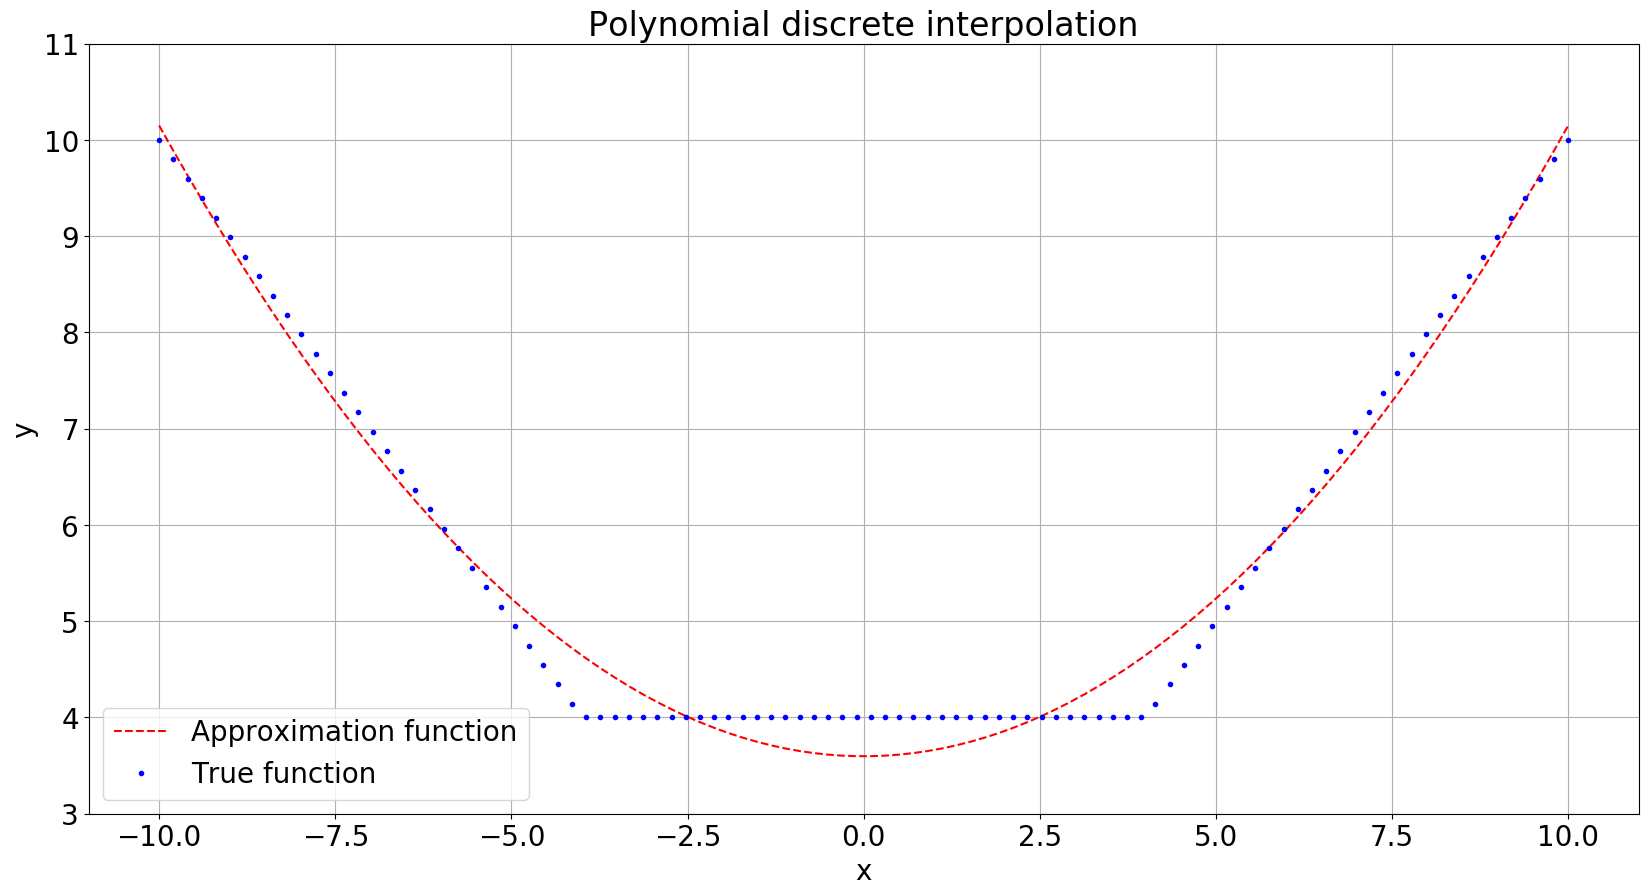
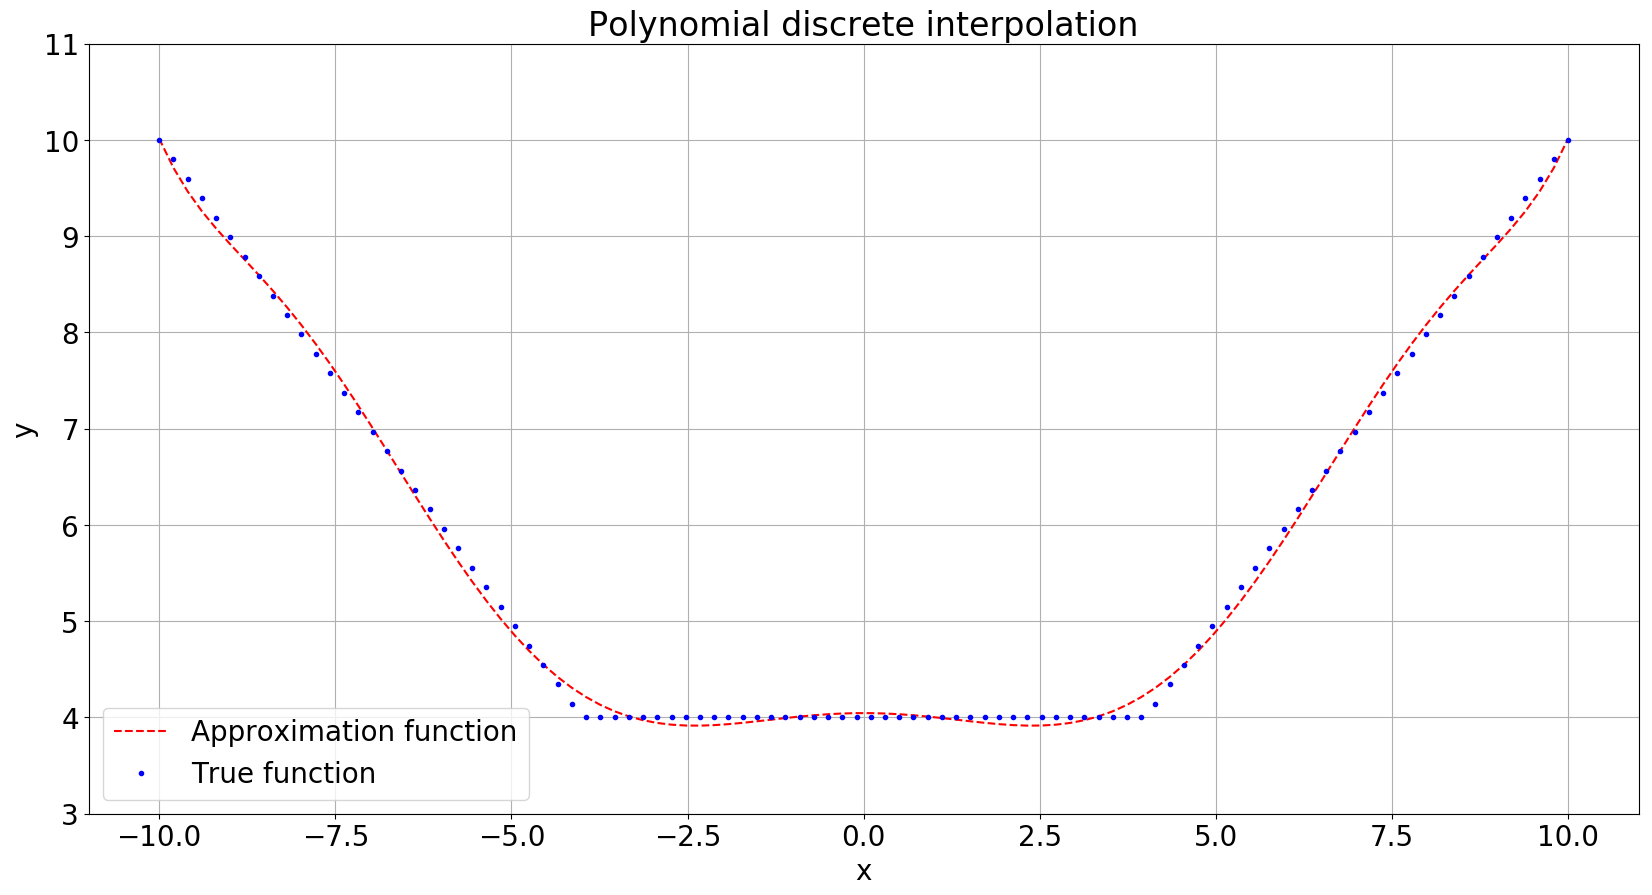
labwork 5 finished

diff --git a/lab/lab-5/tex/report.tex b/lab/lab-5/tex/report.tex
@@ -42,11 +42,12 @@
 
 Для виконання $(f - \Phi, \phi) = 0$ достатньо, щоб \[ (f - \Phi, \phi_j) = 0, \quad j = \overline{0, n}, \] що у свою чергу дає \[ \left(f - \sum_{i = 0}^n c_i \cdot \phi_i, \phi_j \right) = 0, \quad j = \overline{0, n}. \] Звідси маємо СЛАР на $c_i$: \[ \sum_{i=0}^n c_i \cdot (\phi_i, \phi_j)_\rho = (f, \phi_j)_\rho, \quad j = \overline{0, n}. \]
 
-Матриця цієї СЛАР --- $G = \|g_{ij}\|_{i,j=1}^{n}$, де $g_{ij} = (\phi_i, \phi_j)_\rho$ --- матриця Грамма лінійно-незалежної системи функцій $\{\phi_i\}_{i=0}^n$, що доводить існування та єдиність ЕНН. Оскільки $G^T = G$, то для роз\-в'яз\-у\-ва\-ння цієї СЛАР використовують метод квадратних коренів. У багатьох випадках матриця $G$ погано обумовлена, у цих випадках систему функцій вибирають ортогональною з ваговим коефіцієнтом $\rho$. \medskip
+Матриця цієї СЛАР --- $G = \|g_{ij}\|_{i,j=1}^{n}$, де $g_{ij} = (\phi_i, \phi_j)_\rho$ --- матриця Грамма лінійно-незалежної системи функцій $\{\phi_i\}_{i=0}^n$, що доводить існування та єдиність ЕНН. Оскільки $G^T = G$, то для роз\-в'яз\-у\-ва\-ння цієї СЛАР використовують метод квадратних коренів. У багатьох випадках матриця $G$ погано обумовлена, у цих випадках систему функцій вибирають ортогональною з ваговим коефіцієнтом $\rho$, де для поліномів Чебишова \[ \rho(x) = \frac{1}{\sqrt{1 - x^2}}. \]
 
-% TODO
+Тоді СЛАР на $c_i$ набуває наступний вигляд:
+\[ \begin{pmatrix} c_1 \\ c_2 \\ c_3 \\ \vdots \\ c_{n - 1} \\ c_n \end{pmatrix} \cdot \begin{pmatrix} (\phi_1, \phi_1)_\rho & 0 & 0 & \cdots & 0 & 0 \\ 0 & (\phi_2, \phi_2)_\rho & 0 & \cdots & 0 & 0 \\ 0 & 0 & (\phi_3, \phi_3)_\rho & \cdots & 0 & 0 \\ \vdots & \vdots & \vdots & \ddots & \vdots & \vdots \\ 0 & 0 & 0 & \cdots & (\phi_{n - 1}, \phi_{n - 1})_\rho & 0 \\ 0 & 0 & 0 & \cdots & 0 & (\phi_n, \phi_n)_\rho \end{pmatrix} = \begin{pmatrix} (f, \phi_1)_\rho \\ (f, \phi_2)_\rho \\ (f, \phi_3)_\rho \\ \vdots \\ (f, \phi_{n - 1})_\rho \\ (f, \phi_n)_\rho \end{pmatrix} \]
 
-Явно запишемо розв'язок СЛАР: \[ \Phi = \sum_{i = 0}^n (f, \phi_i)_\rho \cdot \phi_i, \] звідки у випадку ортонормованої системи функцій маємо наступний вираз відхилення: \[ \Delta^2(f) = \|f - \Phi\|^2 = \|f\| - \|\Phi\|^2 = \|f\| - \sum_{i=0}^n c_i^2.\] У випадку ортогональної але не нормалізованої системи відхилення шукається наступним чином: \begin{equation} \label{delta} \Delta^2(f) = \|f - \Phi\|^2 = \|f\| - \|\Phi\|^2 = \|f\| - \sum_{i=0}^n c_i^2 \cdot \|\phi_i\|^2. \end{equation}
+Явно запишемо розв'язок цієї СЛАР: \[ c_i = \frac{(f, \phi_i)_\rho}{(\phi_i, \phi_i)_\rho}, \] тоді \[ \Phi = \sum_{i = 0}^n \frac{(f, \phi_i)_\rho}{(\phi_i, \phi_i)_\rho} \cdot \phi_i, \] звідки у випадку ортонормованої системи функцій маємо наступний вираз відхилення: \[ \Delta^2(f) = \|f - \Phi\|^2 = \|f\| - \|\Phi\|^2 = \|f\| - \sum_{i=0}^n c_i^2.\] У випадку ортогональної але не нормалізованої системи відхилення шукається наступним чином: \begin{equation} \label{delta} \Delta^2(f) = \|f - \Phi\|^2 = \|f\| - \|\Phi\|^2 = \|f\| - \sum_{i=0}^n c_i^2 \cdot \|\phi_i\|^2. \end{equation}
 
 \subsection{Метод найменших квадратів}
 
@@ -119,7 +120,7 @@
 
 \subsubsection{Тригонометрична система функцій}
 
-Система функцій $\{1, \sin x, \cos x, \sin 2x, \cos 2x, \ldots$, ортогональні без вагового множника на $[-\pi,\pi]$.
+Система функцій $\{1, \sin x, \cos x, \sin 2x, \cos 2x, \ldots\}$, ортогональні без вагового множника на $[-\pi,\pi]$.
 
 \begin{figure}[H]
     \centering
@@ -184,15 +185,14 @@
     \end{tabular}
 \end{table}
 
-Поліном найкращого середньоквадратичного наближення оптимального степеня та отримуємо, що $m = m^\star = 2$, тобто з моменту коли наступна величина стабілізується або почне зростати: \[\sigma^2 = \sqrt{\frac{1}{n - m} \sum_{k = 0}^n (P_m(x_k) - y_k)^2}.\] 
+Поліном найкращого середньоквадратичного наближення оптимального степеня та отримуємо, що $m = m^\star = 8$, тобто з моменту коли наступна величина стабілізується або почне зростати: \[\sigma^2 = \sqrt{\frac{1}{n - m} \sum_{k = 0}^n (P_m(x_k) - y_k)^2}.\] 
 
 \begin{figure}[H]
     \centering
     \includegraphics[width=\textwidth]{discrete.png}
 \end{figure}
 
-Відповідна ``похибка'' (у лапках бо взята із ваговим коефіцієнтом): \[ \sigma_2 = \texttt{0.004422562774965524}. \]
-
+Відповідна ``похибка'' (у лапках бо взята із ваговим коефіцієнтом): \[ \sigma_2 = \texttt{0.0008506324753000206}. \]
 
 
 \subsection{Кубічні згладжувальні сплайни}

diff --git a/lab/lab-5/py/all.py b/lab/lab-5/py/all.py
@@ -117,6 +117,7 @@ def root_mean_square_approximation_trigonometric(n: int, a0: float, b0: float,
     :param plot: whether to plot the true and approximation functions
     :return: approximation function
     """
+    old_a, old_b = a0, b0
     a0, b0, f = -pi, pi, rescale_function(a0, b0, f, -pi, pi)
 
     def phi(i: int, x: float) -> float:
@@ -129,9 +130,15 @@ def root_mean_square_approximation_trigonometric(n: int, a0: float, b0: float,
 
     if plot:
         plt.savefig('../tex/trigonometric.png', bbox_inches='tight')
-
-    print(f'Trigonometric approximation error = '
+    
+    print(f'Trigonometric approximation error on [-pi, pi] = '
         f'{integrate.quad(lambda x: (f_sol(x) - f(x))**2, a0, b0)[0]}')
+
+    f = rescale_function(-pi, pi, f, old_a, old_b)
+    f_sol = rescale_function(-pi, pi, f_sol, old_a, old_b)
+
+    print(f'Trigonometric approximation error on [{old_a}, {old_b}] = '
+        f'{integrate.quad(lambda x: (f_sol(x) - f(x))**2, old_a, old_b)[0]}')
 
     return f_sol
 
@@ -239,7 +246,7 @@ def root_mean_square_approximation_polinomial_discrete(m: int, a0: float,
         print(f'n = {n}, cost = {cost[n]}')
 
     # true value of n
-    n = 2  # cost.index(min(cost))
+    n = 8  # cost.index(min(cost))
 
     b = np.array([
         scalar_product_discrete(f, lambda x: x**i, x)
@@ -350,10 +357,10 @@ matplotlib.rcParams.update({'font.size': 20})
 
 # root_mean_square_approximation_exponent(n, a0, b0, f, True)
 
-# root_mean_square_approximation_trigonometric(n, a0, b0, f, True)
+root_mean_square_approximation_trigonometric(n, a0, b0, f, True)
 
 # root_mean_square_approximation_chebyshev(n, a0, b0, f, True)
 
 # root_mean_square_approximation_polinomial_discrete(m, a0, b0)
 
-spline_interpolation(m, a0, b0, f)
+# spline_interpolation(m, a0, b0, f)
